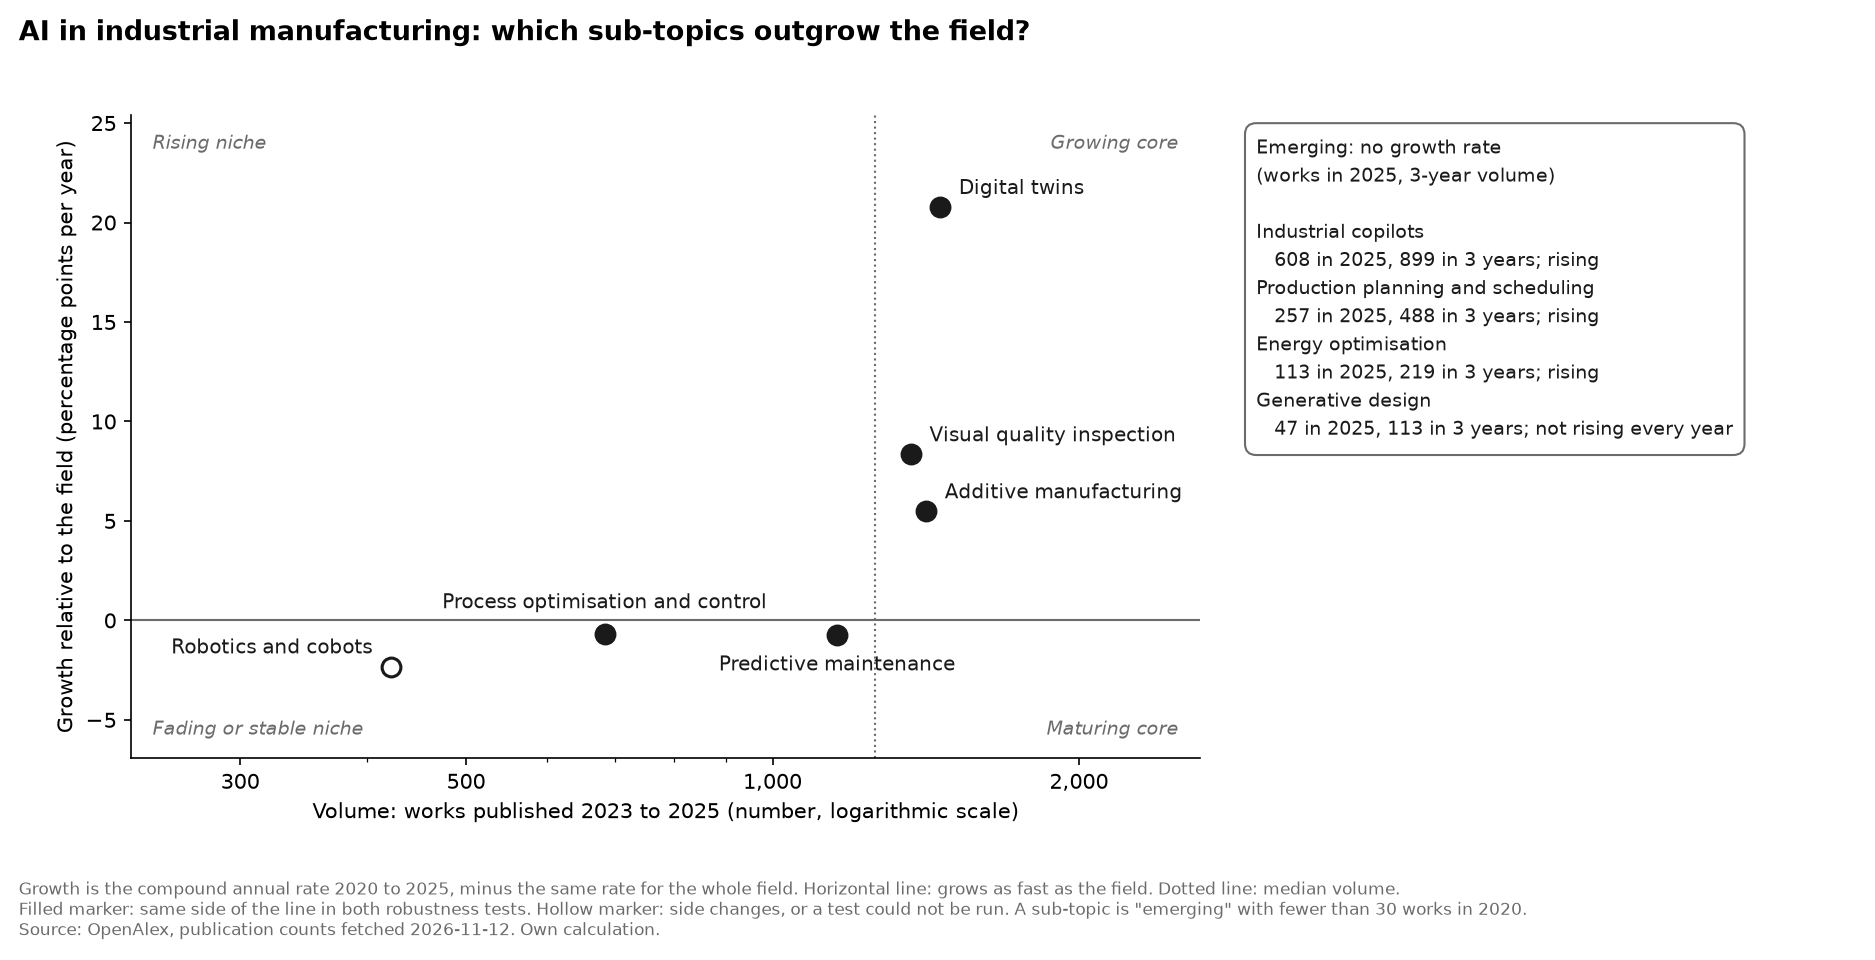
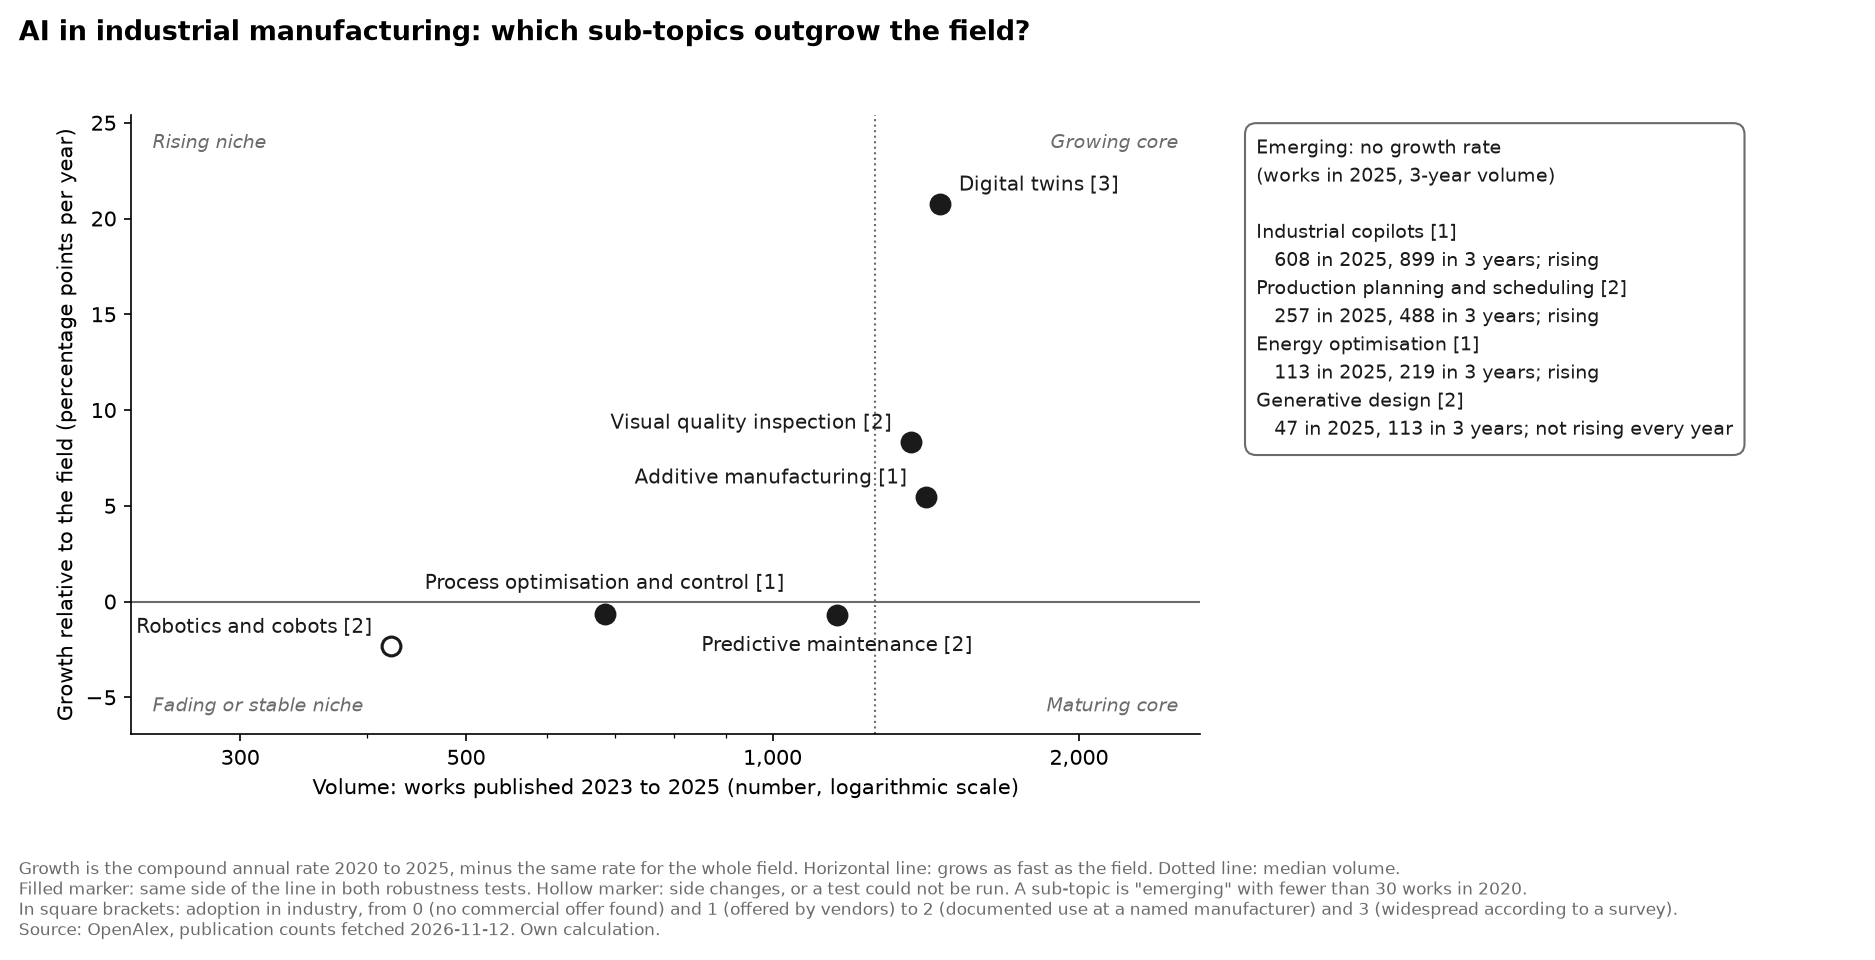
Add adoption levels and show them on the trend map
Record an adoption level per sub-topic with source, link, check date and
comment, as decided by the project owner, and the two rules the owner
set for them (25% of manufacturers in operation for level 3; the
application area is rated, AI-specific or not). The trend map shows the
level in square brackets after each label and explains the scale.

Process optimisation and energy optimisation are at level 1 because the
pages reporting named deployments could not be opened; the open point is
recorded.

Claude-Session: https://claude.ai/code/session_01X3jSLn1XnGxpfZmKjiJEVU

diff --git a/pipelines/figures.py b/pipelines/figures.py
@@ -185,7 +185,8 @@ def plot_trend_map(results: pd.DataFrame, trends_config: dict, fetch_date: str) 
     Vertical axis: relative momentum in percentage points; the line at 0
     means "growing exactly as fast as the field".
     Filled marker: the result is robust. Hollow marker: it is not, or could
-    not be tested. Emerging sub-topics have no growth rate and are listed
+    not be tested. A number in square brackets after a label is the adoption
+    level, once data/manual/adoption.csv is filled in. Emerging sub-topics have no growth rate and are listed
     in a box beside the plot.
     """
     labels = labels_by_id(trends_config)
@@ -194,7 +195,7 @@ def plot_trend_map(results: pd.DataFrame, trends_config: dict, fetch_date: str) 
     emerging = results[results["emerging"]]
 
     figure, axes = plt.subplots(figsize=(12.5, 6.4))
-    figure.subplots_adjust(left=0.07, right=0.64, top=0.88, bottom=0.21)
+    figure.subplots_adjust(left=0.07, right=0.64, top=0.88, bottom=0.235)
 
     axes.set_xscale("log")
     if len(rated) > 0:
@@ -220,7 +221,7 @@ def plot_trend_map(results: pd.DataFrame, trends_config: dict, fetch_date: str) 
         )
         label = labels[row.subtopic_id]
         if not pd.isna(row.adoption_level):
-            label += f" (adoption {int(row.adoption_level)})"
+            label += f" [{int(row.adoption_level)}]"
         if not row.passes_quality:
             label += " (search unreliable)"
         texts.append((label, row.volume, points))
@@ -246,7 +247,8 @@ def plot_trend_map(results: pd.DataFrame, trends_config: dict, fetch_date: str) 
     lines = ["Emerging: no growth rate", f"(works in {last_year}, 3-year volume)", ""]
     for row in emerging.sort_values("volume", ascending=False).itertuples():
         mark = "rising" if row.rising_three_years else "not rising every year"
-        lines.append(f"{labels[row.subtopic_id]}")
+        level = "" if pd.isna(row.adoption_level) else f" [{int(row.adoption_level)}]"
+        lines.append(f"{labels[row.subtopic_id]}{level}")
         lines.append(f"   {int(row.works_end)} in {last_year}, {int(row.volume)} in 3 years; {mark}")
     if len(emerging) == 0:
         lines.append("none")
@@ -256,12 +258,19 @@ def plot_trend_map(results: pd.DataFrame, trends_config: dict, fetch_date: str) 
     )
 
     start_year = last_year - trends_config["growth_window_years"]
+    adoption_note = ""
+    if results["adoption_level"].notna().any():
+        adoption_note = (
+            "In square brackets: adoption in industry, from 0 (no commercial offer found) and 1 (offered by vendors) "
+            "to 2 (documented use at a named manufacturer) and 3 (widespread according to a survey).\n"
+        )
     figure.text(
         0.01, 0.02,
         f"Growth is the compound annual rate {start_year} to {last_year}, minus the same rate for the whole field. "
         "Horizontal line: grows as fast as the field. Dotted line: median volume.\n"
         "Filled marker: same side of the line in both robustness tests. Hollow marker: side changes, or a test "
         f"could not be run. A sub-topic is \"emerging\" with fewer than {trends_config['emerging_threshold']} works in {start_year}.\n"
+        + adoption_note
         + source_note(trends_config, fetch_date),
         fontsize=8, color=MUTED, ha="left", va="bottom",
     )

diff --git a/tests/test_figures.py b/tests/test_figures.py
@@ -132,7 +132,8 @@ def test_trend_map_shows_the_adoption_level_once_it_is_filled_in():
     results = small_results()
     results["adoption_level"] = pd.array([2, pd.NA, pd.NA], dtype="Int64")  # first row is topic_a
     figure = figures.plot_trend_map(results, CONFIG, "2026-11-12")
-    assert "Topic A (adoption 2)" in [text.get_text() for text in figure.axes[0].texts]
+    assert "Topic A [2]" in [text.get_text() for text in figure.axes[0].texts]
+    assert "In square brackets: adoption in industry" in all_text(figure)
     plt.close(figure)
 
 

diff --git a/data/manual/README.md b/data/manual/README.md
@@ -5,7 +5,7 @@ Files here are filled in by hand and read by the pipeline. Each file is describe
 | File | Content | Defined in |
 |---|---|---|
 | `query_quality.csv` | Result of each round of the query-quality check, per sub-topic | [Trend scan method](../../docs/design/trend-scan-method.md), section 5 |
-| `adoption.csv` | Adoption level (0 to 3) per sub-topic with its source. To be filled in by the owner | [Trend scan method](../../docs/design/trend-scan-method.md), section 6.3 |
+| `adoption.csv` | Adoption level (0 to 3) per sub-topic with its source, the date checked and a comment. Rules and status below | [Trend scan method](../../docs/design/trend-scan-method.md), section 6.3 |
 | `source_growth_check_2026-11-12.csv` | A one-off check of how the whole source grew per year, to judge the jump in 2025. Each row has its filter, so it can be repeated. Findings below | Trend scan method, section 2 (latest year) |
 | `query_quality_ratings.csv` | The 200 works rated in the final round, with the reason for each "not relevant" | Same |
 
@@ -52,3 +52,18 @@ Reading:
 - **What the counts cannot tell:** whether there is more AI research, or more papers that mention AI in their abstract.
 
 For the write-up: state this next to the 2025 figures, and treat robustness test A (2019 to 2024) and test C (articles only) as the checks on it.
+
+## Adoption levels (2026-11-13)
+
+The scale is defined in the trend scan method, section 6.3. Two rules were set by the project owner before the levels were assigned, because the method note left them open:
+
+- **Level 3 ("widespread")** needs a survey in which at least 25% of manufacturers say they use the technology in operation. Piloting and planning do not count. A share of equipment installed is not a survey of manufacturers.
+- **What is rated** is the application area in industrial use. Most sources do not separate AI-based use from other use; the comment column says for each row whether the source is specific to AI. The adoption signal is therefore broader than the publication counts, which require an AI method.
+
+How the levels were set: the AI assistant searched for sources and opened the pages it could reach; the owner checked the sources for the first three sub-topics, set the two rules and decided all ten levels. The comment column records for each row who checked the page.
+
+Open points:
+
+- **Process optimisation and energy optimisation** are at level 1 because the pages reporting named deployments could not be opened. Confirming one named site each would raise them to 2.
+- **Several sources are not independent**: suppliers and vendors reporting on their own customers or markets. The comments say where.
+- **Evidence ages quickly.** Each row carries the date it was checked.

diff --git a/README.md b/README.md
@@ -34,8 +34,8 @@ This repository collects applied material on how organisations find, evaluate an
 
 This project was built with an AI assistant (Claude Code), and the division of work is stated here so nothing is misread.
 
-- **By the project owner:** the scope and priorities, the decisions on method (approved before any data was fetched), the checks of the assistant's work, the research on adoption and industry figures, the scores and their evidence, the interpretation and the written analyses.
-- **By the AI assistant, at the owner's direction:** the Python code and its tests, the data fetch, drafts of the project documents and method notes, a first rating of the search results, and reviews, including a critical review of its own designs.
+- **By the project owner:** the scope and priorities, the decisions on method (approved before any data was fetched), the checks of the assistant's work, the rules and levels for adoption, the scores and their evidence, the interpretation and the written analyses.
+- **By the AI assistant, at the owner's direction:** the Python code and its tests, the data fetch, drafts of the project documents and method notes, a first rating of the search results, the search for and checking of adoption sources, and reviews, including a critical review of its own designs.
 
 The project documents record each decision and change request, and the Git history shows who committed what.
 
